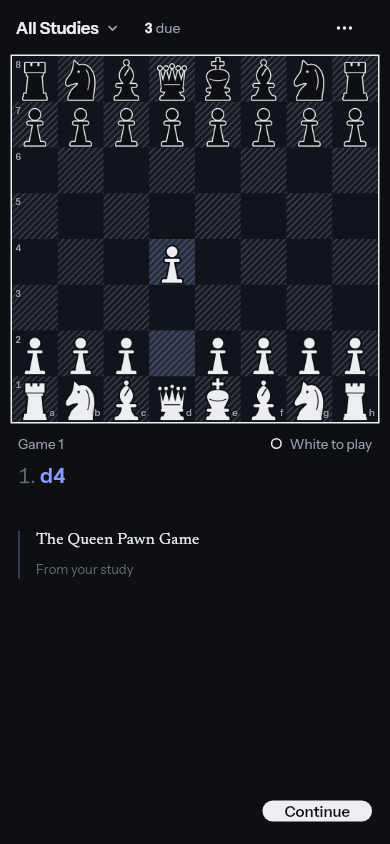
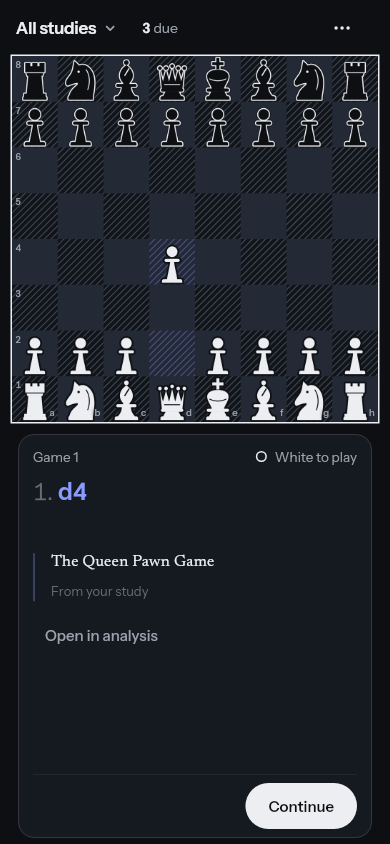
feat(review): group the side column as a card with a ruled action footer (#163)
The prompt state showed a void with a floating Skip: the side column is now
one surface card (hairline, r16) holding meta, notation and slot above an
action footer separated by a hairlineSoft rule. The notation line grows
21->24 narrow so the headline holds under the board's weight; the layout's
reserved min-height follows (22->24). Fixed-region behavior unchanged:
board never moves between states, slot still scrolls, actions keep min 56.

Goldens regenerated for prompt + answered (the states showing the column);
actions/scope/empty captures contain no side column and were left alone.

Verified by targeted tests only (full suite is CI's job).

diff --git a/lib/src/design/review_layout.dart b/lib/src/design/review_layout.dart
@@ -133,39 +133,56 @@ class SrsReviewSide extends StatelessWidget {
 
   @override
   Widget build(BuildContext context) {
+    final c = context.srs;
     final lineH = lineFontSize * (wide ? 1.3 : 1.36);
-    return Column(
-      crossAxisAlignment: CrossAxisAlignment.start,
-      children: [
-        Padding(
-          padding: EdgeInsets.only(top: wide ? 2 : 0),
-          child: meta,
-        ),
-        if (line != null) ...[
-          SizedBox(height: wide ? 22 : 8),
-          ConstrainedBox(
-            constraints: BoxConstraints(minHeight: lineH * 2),
-            child: line,
+    // The side column is one surface card: meta + line + slot grouped above a ruled
+    // action footer. In the prompt state the slot is empty and the actions hold a lone
+    // Skip — without the card and the footer rule that reads as a void with a floater.
+    return Container(
+      padding: EdgeInsets.fromLTRB(wide ? 20 : 14, wide ? 14 : 12, wide ? 20 : 14, 0),
+      decoration: BoxDecoration(
+        color: c.surface,
+        border: Border.all(color: c.hairline),
+        borderRadius: BorderRadius.circular(16),
+      ),
+      child: Column(
+        crossAxisAlignment: CrossAxisAlignment.start,
+        children: [
+          Padding(
+            padding: EdgeInsets.only(top: wide ? 2 : 0),
+            child: meta,
+          ),
+          if (line != null) ...[
+            SizedBox(height: wide ? 22 : 10),
+            ConstrainedBox(
+              constraints: BoxConstraints(minHeight: lineH * 2),
+              child: line,
+            ),
+          ],
+          Expanded(
+            child: wide
+                ? Padding(
+                    padding: EdgeInsets.only(top: line != null ? 26 : 14),
+                    child: SingleChildScrollView(child: slot),
+                  )
+                : _BottomFade(
+                    child: Padding(
+                      padding: EdgeInsets.only(top: line != null ? 12 : 10, bottom: 22),
+                      child: SingleChildScrollView(child: slot),
+                    ),
+                  ),
+          ),
+          Container(
+            decoration: BoxDecoration(
+              border: Border(top: BorderSide(color: c.hairlineSoft)),
+            ),
+            child: ConstrainedBox(
+              constraints: const BoxConstraints(minHeight: 56),
+              child: Padding(padding: const EdgeInsets.fromLTRB(0, 8, 0, 8), child: actions),
+            ),
           ),
         ],
-        Expanded(
-          child: wide
-              ? Padding(
-                  padding: EdgeInsets.only(top: line != null ? 26 : 14),
-                  child: SingleChildScrollView(child: slot),
-                )
-              : _BottomFade(
-                  child: Padding(
-                    padding: EdgeInsets.only(top: line != null ? 10 : 8, bottom: 22),
-                    child: SingleChildScrollView(child: slot),
-                  ),
-                ),
-        ),
-        ConstrainedBox(
-          constraints: const BoxConstraints(minHeight: 56),
-          child: Padding(padding: const EdgeInsets.fromLTRB(0, 6, 0, 4), child: actions),
-        ),
-      ],
+      ),
     );
   }
 }

diff --git a/test/design/srs_notation_line_test.dart b/test/design/srs_notation_line_test.dart
@@ -25,6 +25,12 @@ void main() {
   }
 
   group('SrsNotationLine', () {
+    test('the narrow line is headline-sized', () {
+      // The line is billed as the headline of the review screen; 24 narrow keeps it
+      // present under the board's weight. Fails if the size regresses to body text.
+      expect(SrsText.lineSize(wide: false), 24.0);
+    });
+
     testWidgets('a line that fits is shown whole, with no ellipsis', (tester) async {
       final tokens = await render(tester, ['e4', 'e5', 'Nf3', 'Nc6', 'Bb5', 'a6']);
 

diff --git a/lib/src/design/tokens.dart b/lib/src/design/tokens.dart
@@ -383,7 +383,7 @@ abstract final class SrsText {
 
   /// Notation line size.
   static double lineSize({required bool wide, double wideWidth = 0}) =>
-      wide ? (wideWidth * 0.024).clamp(23.0, 31.0) : 21;
+      wide ? (wideWidth * 0.024).clamp(23.0, 31.0) : 24;
   static TextStyle lineMove(double size, Color c) =>
       _ui(size, FontWeight.w600, c, em: -0.012, height: _wideLineHeight(size), tab: true);
   static TextStyle lineNumber(double size, Color c) =>

diff --git a/lib/src/view/review/review_screen.dart b/lib/src/view/review/review_screen.dart
@@ -786,7 +786,7 @@ class _ActiveReviewViewState extends ConsumerState<_ActiveReviewView> {
           ),
           side: (context, wide, appWidth) => SrsReviewSide(
             wide: wide,
-            lineFontSize: wide ? 28.0 : 22.0,
+            lineFontSize: wide ? 28.0 : 24.0,
             meta: _MetaView(
               contextLabel: prompt.chapterTitle ?? prompt.studyTitle ?? '',
               orientation: state.boardOrientation,
